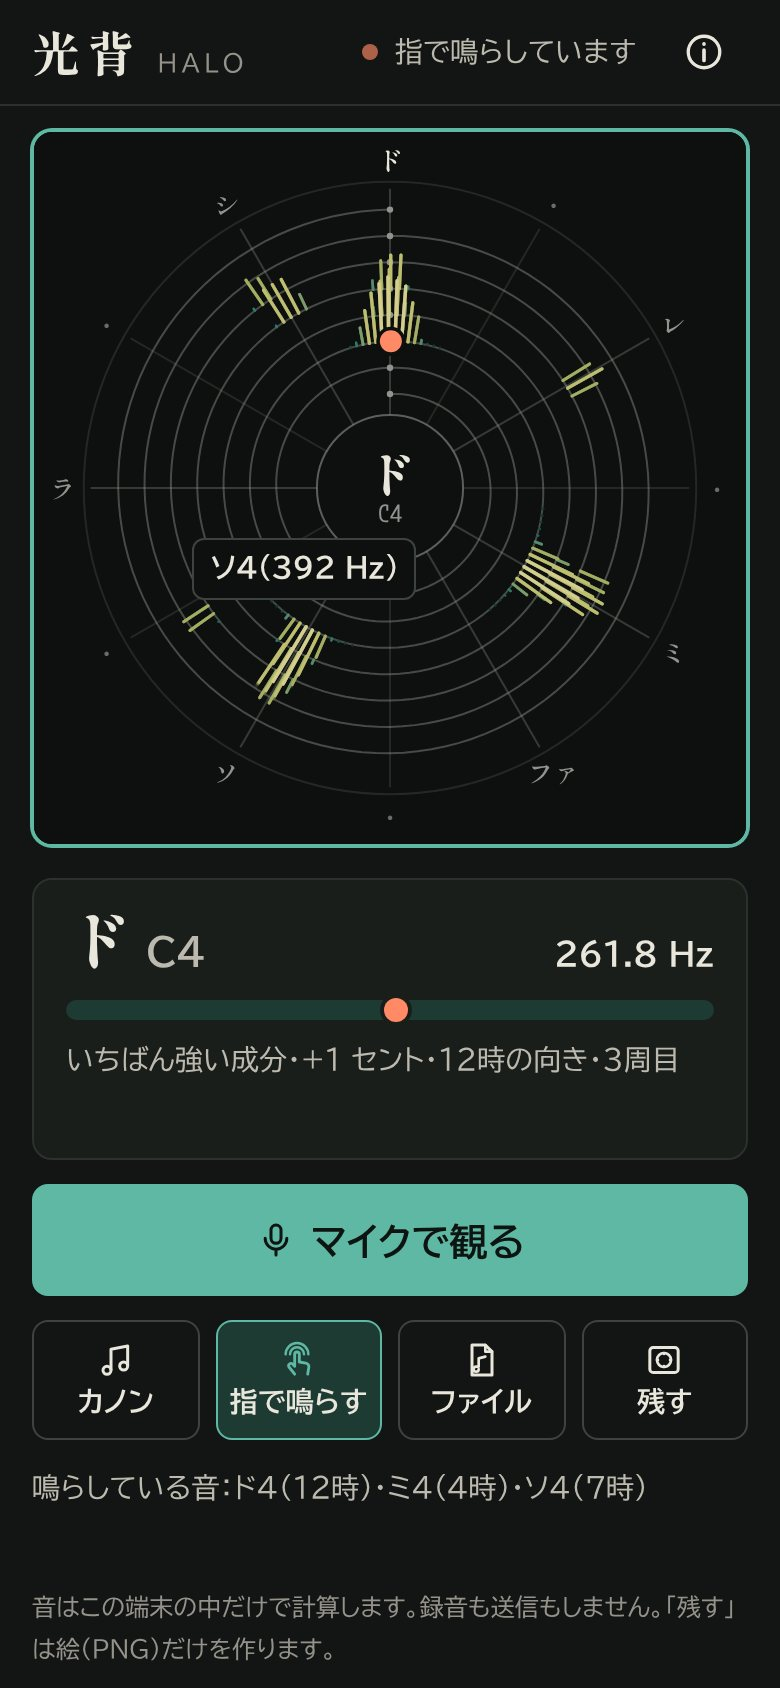
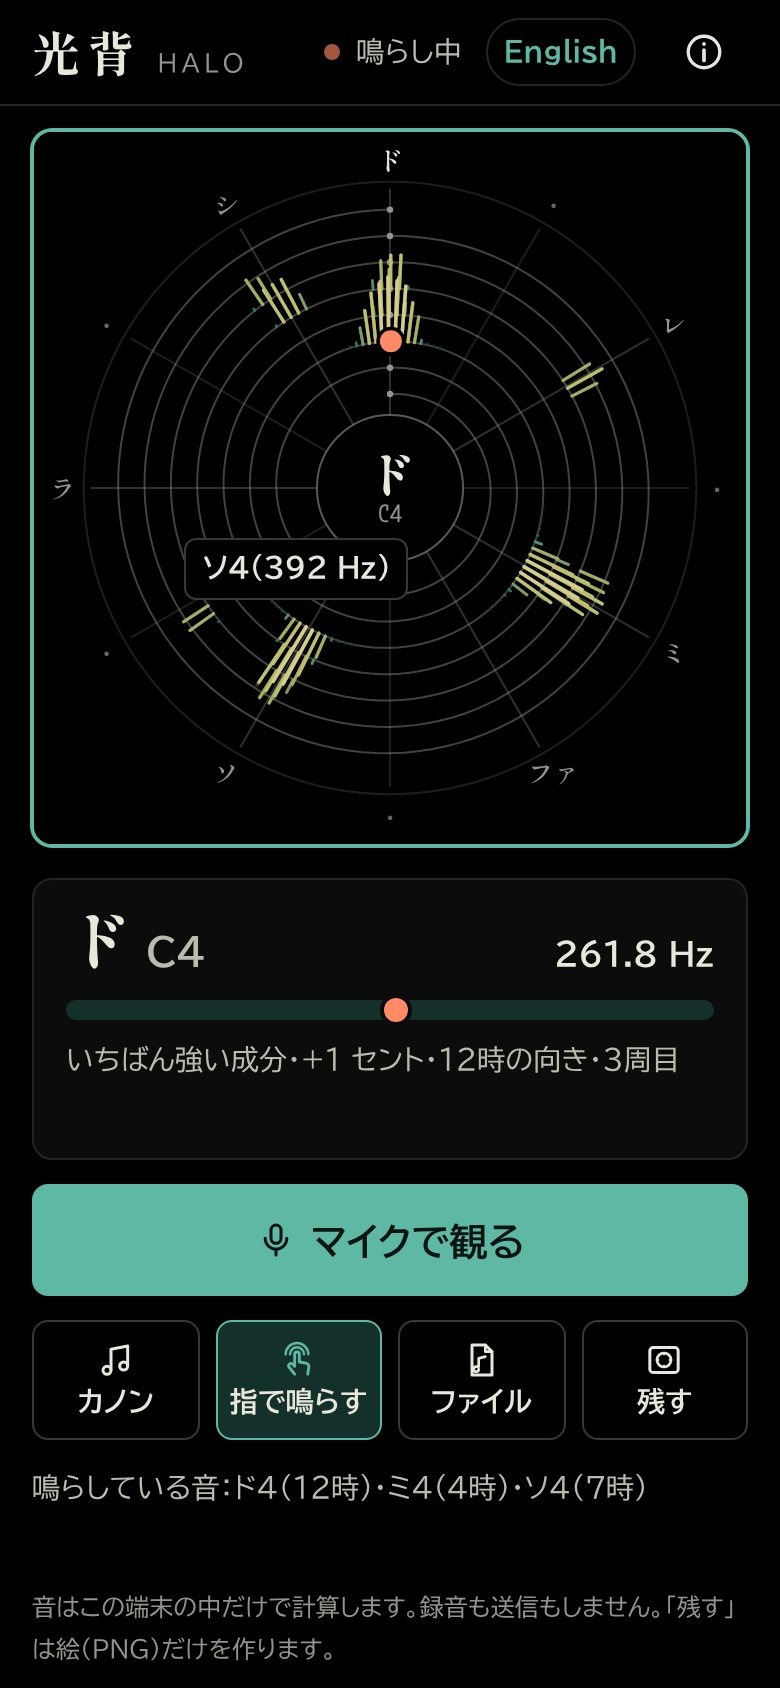
日本語版も黒背景に
- index.html：en.html と同じ黒い地（data-theme="dark" class="black"）。ブラウザの帯・マニフェストの色も黒
- 端末が明るい表示でも、日本語版・英語版ともいつも黒い。表示の明るさの切り替え（しくみの「表示」）と
  設定の保存（theme・applyTheme）は、使い道がなくなったので削除
- 日本語版の見出しの帯が English の入口で窮屈になったので、状態の文字を短くした
  （停止中・観測中・鳴らし中・サンプル名）
- README の画像を黒い画面に差しかえ
- テスト：日本語版・英語版とも黒い地（ページ・光背・ブラウザの帯・マニフェスト）、切り替えがないことを確認

テスト：単体 47・画面の通しテスト 18、すべて成功

Claude-Session: https://claude.ai/code/session_01NaV72ognm6Bt8Kk2ckh1gR

Changed region(s): [[0.4615, 0.0, 0.8, 0.0616], [0.2462, 0.3081, 0.5231, 0.3697]]

diff --git a/js/main.js b/js/main.js
@@ -23,9 +23,9 @@ import { analyserLikeDb, noteInfo, freqToMidi, midiToFreq } from './dsp.js';
 import { canonRound } from './synth.js';
 import { formatHz, formatCents } from './format.js';
 import { $, $$, h, toast, openDialog, onResize, saveFile } from './ui.js';
-import { prefs, applyTheme } from './prefs.js';
+import { prefs } from './prefs.js';
 import { isEmbedded } from './claude.js';
-import { LANG, L, noteName, clockText } from './i18n.js';
+import { L, noteName, clockText } from './i18n.js';
 
 const ANALYSIS_MS = 80;
 const UI_MS = 120;
@@ -56,10 +56,10 @@ const CAPTION = {
   ),
 };
 const STATUS = {
-  mic: () => L('マイクで観ています', 'Listening'),
+  mic: () => L('観測中', 'Listening'),
   file: (name) => L(`ファイル：${name}`, name),
-  sample: (name) => L(`サンプル：${name}`, name),
-  touch: () => L('指で鳴らしています', 'Touch'),
+  sample: (name) => L(name, name),
+  touch: () => L('鳴らし中', 'Touch'),
 };
 /** カノンを鳴らしているあいだ、絵の下に出す「観るところ」 */
 const CANON_LOOK = L(
@@ -67,8 +67,6 @@ const CANON_LOOK = L(
   'Three lights chase the same melody, each two bars (8 beats) behind. The gold ring is the bass (eight notes, over and over). When all three voices are in…',
 );
 
-// 英語版（en.html）は、いつも黒い地（<html data-theme="dark" class="black">）。日本語版は設定どおり
-if (LANG !== 'en') applyTheme();
 
 const engine = new AudioEngine({ fftSize: KOUHAI_FFT_SIZE });
 engine.keepAwake = prefs.get('keepAwake');
@@ -364,7 +362,7 @@ function onStopped() {
   stalled = false;
   deadMic = false;
   silentSince = 0;
-  setStatus(L('止まっています', 'Stopped'), false);
+  setStatus(L('停止中', 'Stopped'), false);
   setCaption();
   updateButtons();
   redrawStill();
@@ -650,15 +648,6 @@ el.btnSave.addEventListener('click', async () => {
 
 // ---------- しくみ（見方・物理・数学・英語・コード） ----------
 el.btnAbout.addEventListener('click', () => openDialog($('#dlg-about')));
-for (const r of $$('input[name="kh-theme"]')) {
-  r.checked = r.value === prefs.get('theme');
-  r.addEventListener('change', () => {
-    if (!r.checked) return;
-    prefs.set('theme', r.value);
-    applyTheme();
-  });
-}
-
 // ---------- 最初に見せる例：カノンの3つの声がそろったところを止めた絵 ----------
 const EXAMPLE_BEAT = ALL_VOICES_BEAT + 0.6;
 function renderExample() {
@@ -690,19 +679,14 @@ onResize(el.stage, () => {
 matchMedia('(prefers-color-scheme: dark)').addEventListener('change', applyPalette);
 new MutationObserver(applyPalette).observe(document.documentElement, { attributes: true, attributeFilter: ['data-theme'] });
 
-// Claude の中（claude.ai）ではマイクが使えないので、先に伝えておく。
-// 表示の明るさは Claude が決めるので、切り替えは出さない
-if (isEmbedded) {
-  el.note.hidden = false;
-  const themeSet = $('#ab-view-set');
-  if (themeSet) themeSet.hidden = true;
-}
+// Claude の中（claude.ai）ではマイクが使えないので、先に伝えておく
+if (isEmbedded) el.note.hidden = false;
 
 // 始めの状態
 stage.resize();
 applyPalette();
 updateButtons();
-setStatus(L('止まっています', 'Stopped'), false);
+setStatus(L('停止中', 'Stopped'), false);
 setCaption();
 renderExample();
 

diff --git a/index.html b/index.html
@@ -1,16 +1,15 @@
 <!doctype html>
-<html lang="ja">
+<html lang="ja" data-theme="dark" class="black">
 <head>
 <meta charset="utf-8">
 <meta name="viewport" content="width=device-width, initial-scale=1, viewport-fit=cover">
 <title>光背 Halo — 音の高さを、光の輪で観る</title>
 <meta name="claude:viewport-fit-sides" content="cover">
 <meta name="description" content="スマホのマイクで、音の高さを「光の輪」で観る。12時がド、1周で1オクターブの螺旋に、千本の光。歌の音程、和音の形、倍音が見える。触れて鳴らすこともできる。サンプルはパッヘルベルの「カノン」。">
-<meta name="theme-color" content="#eceee9" media="(prefers-color-scheme: light)">
-<meta name="theme-color" content="#121513" media="(prefers-color-scheme: dark)">
+<meta name="theme-color" content="#000000">
 <meta name="apple-mobile-web-app-capable" content="yes">
 <meta name="apple-mobile-web-app-title" content="光背 Halo">
-<meta name="apple-mobile-web-app-status-bar-style" content="default">
+<meta name="apple-mobile-web-app-status-bar-style" content="black">
 <link rel="manifest" href="manifest.webmanifest">
 <link rel="icon" href="icons/icon.svg" type="image/svg+xml">
 <link rel="apple-touch-icon" href="icons/apple-touch-icon.png">
@@ -25,7 +24,7 @@
 <header class="kh-head">
   <div class="kh-head-inner">
     <h1 class="kh-mark"><span class="kh-kanji">光背</span><span class="kh-sub">Halo</span></h1>
-    <p class="head-status" id="head-status" aria-live="polite"><i class="live-dot" aria-hidden="true"></i><span id="head-status-text">止まっています</span></p>
+    <p class="head-status" id="head-status" aria-live="polite"><i class="live-dot" aria-hidden="true"></i><span id="head-status-text">停止中</span></p>
     <a class="kh-lang" href="en.html" lang="en" hreflang="en">English</a>
     <button type="button" class="btn btn-icon-only kh-about-btn" id="btn-about" aria-label="光背のしくみ（見方・物理・数学・英語・コード）"><svg viewBox="0 0 24 24" aria-hidden="true"><use href="#ic-info"></use></svg></button>
   </div>
@@ -169,16 +168,6 @@
         <li>ド C2（約 65 Hz）より低い音と、ド C9（約 8,400 Hz）より高い音は、螺旋の外なので描きません。</li>
         <li>音はこの端末の中で計算するだけです（録音も送信もしません）。</li>
       </ul>
-    </section>
-
-    <section id="ab-view-set" aria-labelledby="ab-view">
-      <h3 id="ab-view">表示</h3>
-      <div class="seg seg-small" role="radiogroup" aria-labelledby="ab-view">
-        <label><input type="radio" name="kh-theme" value="auto"><span>端末に合わせる</span></label>
-        <label><input type="radio" name="kh-theme" value="light"><span>明るい</span></label>
-        <label><input type="radio" name="kh-theme" value="dark"><span>暗い</span></label>
-      </div>
-      <p class="kh-small">暗い表示では、光が金色に輝きます。</p>
     </section>
   </div>
 </dialog>

diff --git a/js/prefs.js b/js/prefs.js
@@ -2,8 +2,6 @@
  * prefs.js — 設定を覚えておく係（この端末のブラウザの localStorage に保存）
  * 保存できない環境（プライベートモードなど）でも、その場では使えるようにしてある。
  */
-import { isEmbedded } from './claude.js';
-
 const KEY = 'halo.prefs.v1';
 
 export const DEFAULT_PREFS = {
@@ -11,7 +9,6 @@ export const DEFAULT_PREFS = {
   minDb: -100, // 色の濃さ：これより小さい成分は地の色
   maxDb: -25,
   keepAwake: true, // 観ているあいだは画面を消さない
-  theme: 'auto', // 'auto' | 'light' | 'dark'
 };
 
 function load() {
@@ -39,11 +36,3 @@ export const prefs = {
     }
   },
 };
-
-/** 表示テーマを当てる（Claude の中では、Claude 側のテーマに任せる） */
-export function applyTheme() {
-  if (isEmbedded) return;
-  const t = prefs.get('theme');
-  if (t === 'light' || t === 'dark') document.documentElement.dataset.theme = t;
-  else delete document.documentElement.dataset.theme;
-}

diff --git a/css/halo.css b/css/halo.css
@@ -1057,7 +1057,7 @@ dialog::backdrop {
   border-radius: 999px;
 }
 
-/* ---------- 英語版（en.html）：黒い地。暗い表示の色をもとに、地だけをまっ黒にする ---------- */
+/* ---------- 黒い地（日本語版・英語版とも）。暗い表示（青銅と金）の色をもとに、地だけをまっ黒にする ---------- */
 :root.black {
   --paper: #000000;
   --surface: #0b0c0b;
